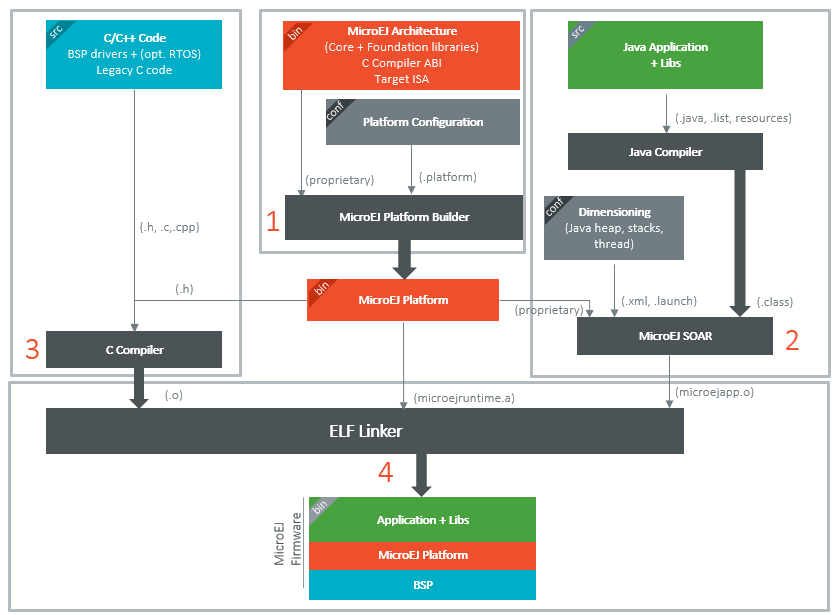
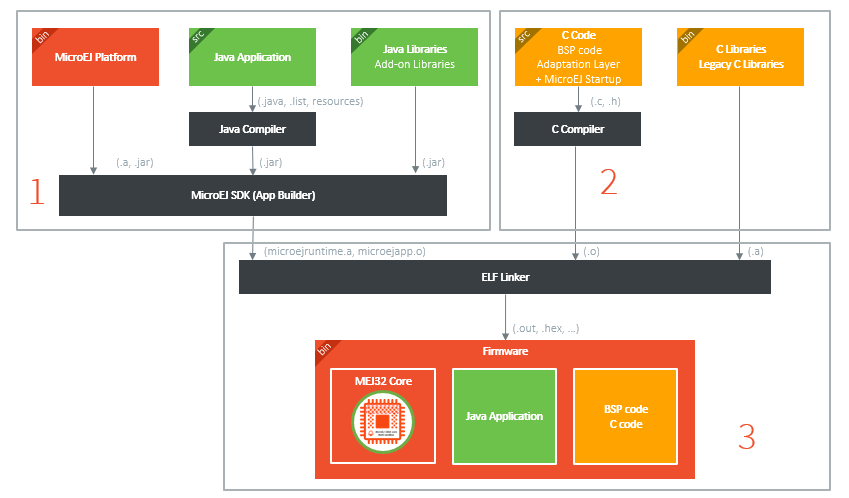
Split Build Platform and Build Firmware in two schemas + rephrase

diff --git a/Tutorials/tutorialUnderstandMicroEJFirmwareBuild.rst b/Tutorials/tutorialUnderstandMicroEJFirmwareBuild.rst
@@ -173,17 +173,27 @@ device.
    the MicroEJ Simulator using the mocks provided by the MicroEJ
    Platform.
 
+Build a MicroEJ Platform
+~~~~~~~~~~~~~~~~~~~~~~~~
+
+The next schema presents the components and process to build a MicroEJ Platform.
+
+.. image:: images/platform-build_workflow.PNG
+    :align: center
+
+Build a MicroEJ Firmware
+~~~~~~~~~~~~~~~~~~~~~~~~
+
 The next schema presents the steps to build a MicroEJ Mono-Sandbox
 Firmware (previously known as MicroEJ Single-app Firmware).  The steps
 are:
 
-1. Build the MicroEJ Platform using MicroEJ SDK
 
-2. Build the MicroEJ Application into a ``microejapp.o`` using MicroEJ SDK
+1. Build the MicroEJ Application into a ``microejapp.o`` using MicroEJ SDK
 
-3. Compile the BSP C sources into ``.o`` using the C toolchain
+2. Compile the BSP C sources into ``.o`` using the C toolchain
 
-4. the BSP (``.o``) and the MicroEJ Application (``microejapp.o``) and
+3. the BSP (``.o``) and the MicroEJ Application (``microejapp.o``) and
    the MicroEJ Platform (``microejruntime.a``) are linked by the C toolchain to produce a
    final ELF or binary called MicroEJ Firmware (e.g. ``application.out``).
 
